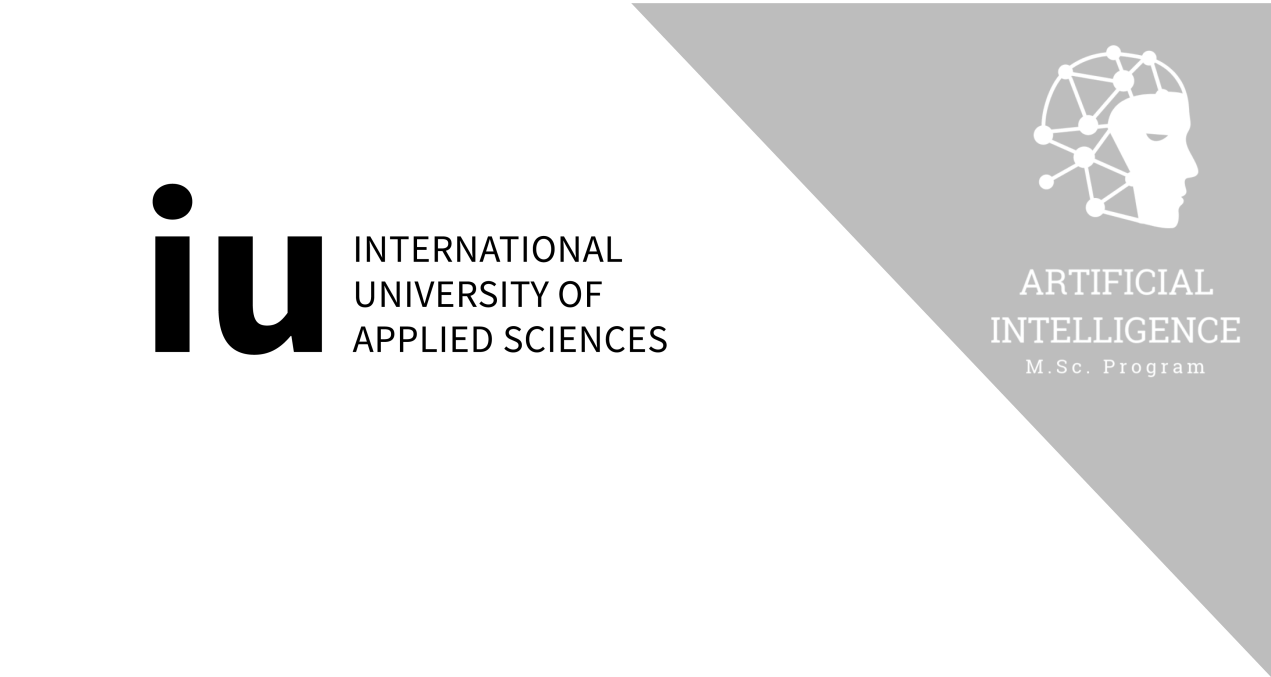
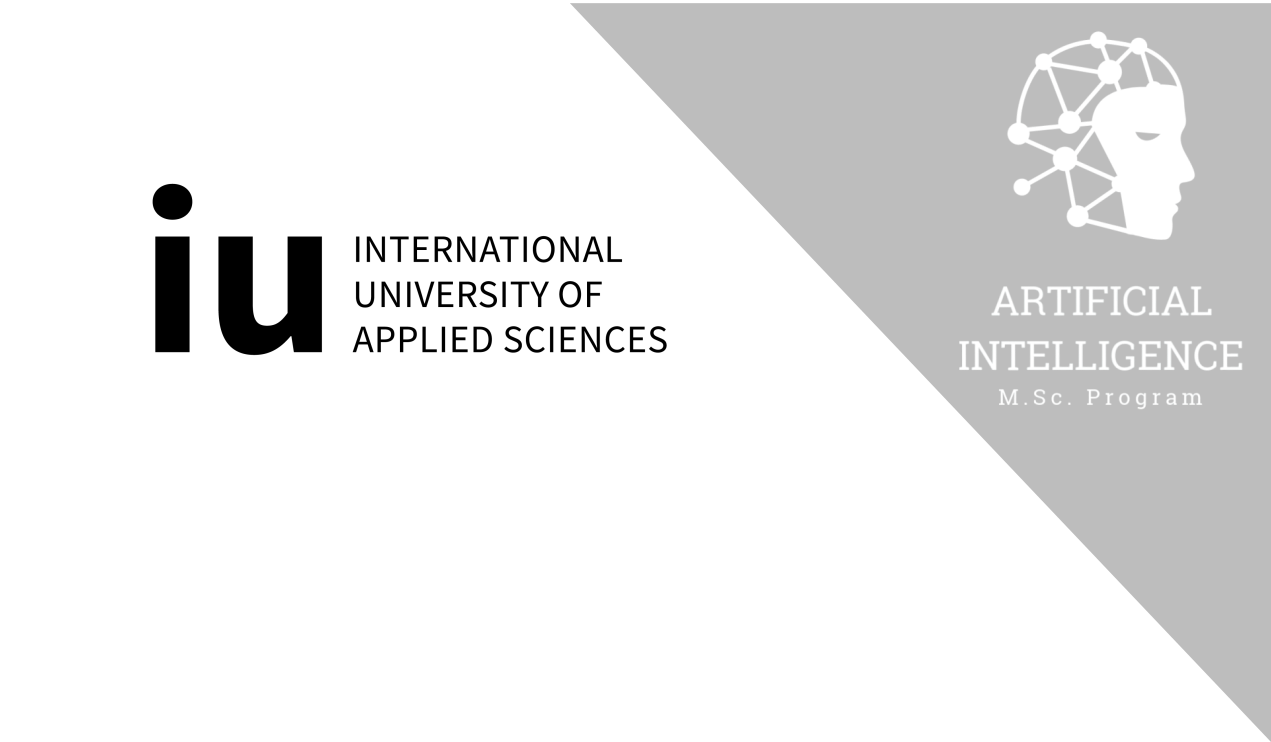
Increase size of cover image

diff --git a/template/cover.tex b/template/cover.tex
@@ -3,7 +3,7 @@
 %%%%%%%%%%%%%%%%%%%%%%%%%%
 %%% Begin Page
 %%%%%%%%%%%%%%%%%%%%%%%%%%
-\newgeometry{top=-5mm, bottom=35mm}
+\newgeometry{top=-1mm, bottom=35mm}
 \thispagestyle{empty}
 
 % Cover Logo
